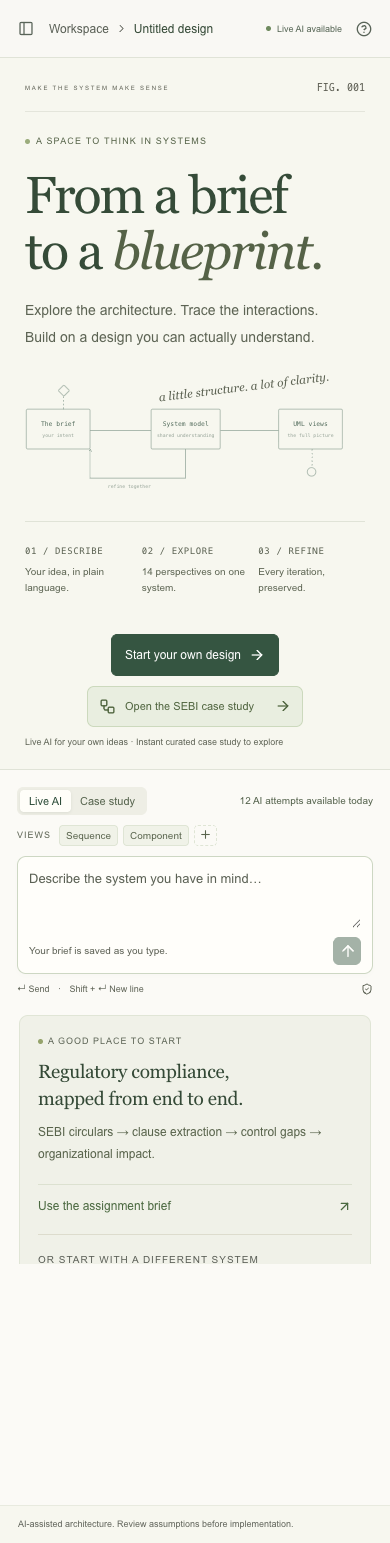
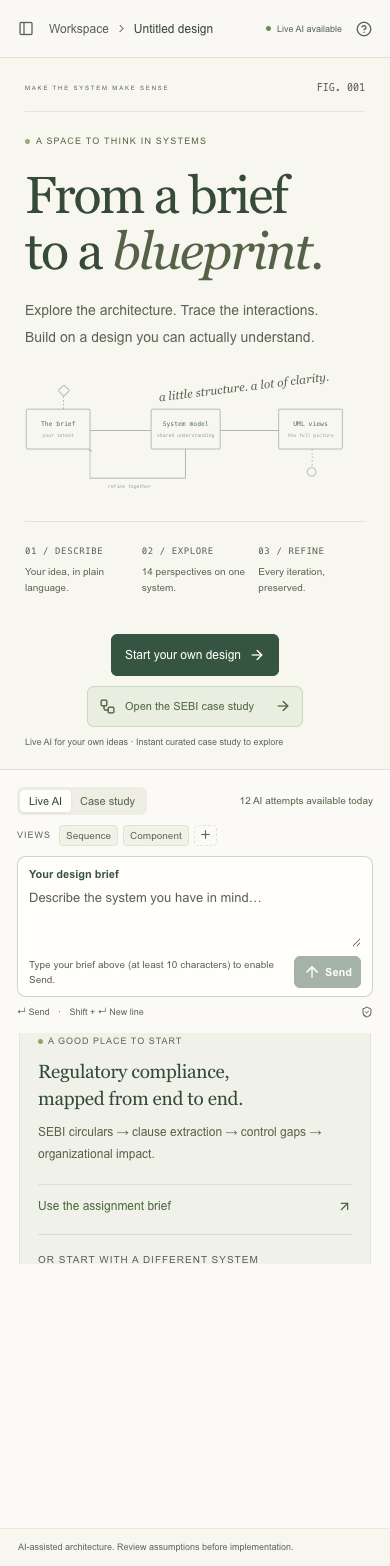
fix: make brief entry and send availability explicit

diff --git a/frontend/src/App.tsx b/frontend/src/App.tsx
@@ -368,7 +368,8 @@ export default function App() {
       opening ||
       input.length < 10 ||
       !selectedTypes.length ||
-      conversation?.archived
+      conversation?.archived ||
+      (mode === 'live' && allowance?.remaining === 0)
     )
       return;
     const latest = conversation?.revisions.at(-1);
@@ -543,6 +544,22 @@ export default function App() {
       </div>
     );
   const isHistoric = conversation && revisionIndex < conversation.revisions.length - 1;
+  const briefLength = prompt.trim().length;
+  const sendDisabledReason = busy
+    ? 'Your design is being generated.'
+    : opening
+      ? 'Opening this design…'
+      : conversation?.archived
+        ? 'Restore this design to enter a new request.'
+        : briefLength === 0
+          ? 'Type your brief above (at least 10 characters) to enable Send.'
+          : briefLength < 10
+            ? `Add ${10 - briefLength} more character${10 - briefLength === 1 ? '' : 's'} to enable Send.`
+            : !types.length
+              ? 'Choose at least one UML view to enable Send.'
+              : requestMode === 'live' && allowance?.remaining === 0
+                ? 'Today’s free AI allowance is used. You can explore a new case study.'
+                : '';
 
   return (
     <div className="app-shell">
@@ -905,9 +922,14 @@ export default function App() {
                 </button>
               </div>
               <div className="composer">
+                <label className="composer-label" htmlFor="design-brief">
+                  {conversation ? 'Your next request' : 'Your design brief'}
+                </label>
                 <textarea
+                  id="design-brief"
                   ref={textarea}
                   aria-label="Describe your software design"
+                  aria-describedby="composer-guidance"
                   placeholder={
                     conversation
                       ? 'What would you like to change?'
@@ -925,25 +947,19 @@ export default function App() {
                   }}
                 />
                 <div className="composer-footer">
-                  <span>
-                    {prompt.length
-                      ? `${prompt.length.toLocaleString()} / 12,000`
-                      : 'Your brief is saved as you type.'}
+                  <span id="composer-guidance">
+                    {sendDisabledReason ||
+                      `${prompt.length.toLocaleString()} / 12,000 · Draft saved`}
                   </span>
                   <button
                     className="send-button"
                     aria-label="Send design request"
-                    disabled={
-                      busy ||
-                      opening ||
-                      !!conversation?.archived ||
-                      prompt.trim().length < 10 ||
-                      !types.length ||
-                      (requestMode === 'live' && allowance?.remaining === 0)
-                    }
+                    title={sendDisabledReason || 'Send your design request'}
+                    disabled={!!sendDisabledReason}
                     onClick={() => void send()}
                   >
                     {busy ? <Loader2 size={17} className="spin" /> : <ArrowUp size={18} />}
+                    <span>Send</span>
                   </button>
                 </div>
               </div>

diff --git a/frontend/tests/controls.spec.ts b/frontend/tests/controls.spec.ts
@@ -133,6 +133,20 @@ test('starter briefs, quota mode, selection controls, and cancellation keep user
 }) => {
   await exposeLiveControls(page);
   await page.goto('/');
+  const input = page.getByLabel('Describe your software design');
+  const send = page.getByRole('button', { name: 'Send design request' });
+  await expect(input).toBeEnabled();
+  await expect(send).toBeDisabled();
+  await expect(
+    page.getByText('Type your brief above (at least 10 characters) to enable Send.'),
+  ).toBeVisible();
+  await input.fill('queue');
+  await expect(send).toBeDisabled();
+  await expect(page.getByText('Add 5 more characters to enable Send.')).toBeVisible();
+  await input.fill('Add queues');
+  await expect(send).toBeEnabled();
+  await input.fill('          ');
+  await expect(send).toBeDisabled();
   await page.getByRole('button', { name: 'Start your own design' }).click();
   await expect(page.getByRole('dialog')).toBeVisible();
   expect((await new AxeBuilder({ page }).analyze()).violations).toEqual([]);

diff --git a/frontend/src/styles.css b/frontend/src/styles.css
@@ -671,6 +671,14 @@ button:hover:not(:disabled) {
   border-color: #7f9671;
   box-shadow: 0 0 0 3px #6c88530c;
 }
+.composer-label {
+  display: block;
+  font-size: 11px;
+  font-weight: 600;
+  color: var(--green);
+  margin-bottom: 7px;
+  cursor: text;
+}
 .composer textarea {
   width: 100%;
   min-height: 60px;
@@ -693,19 +701,26 @@ button:hover:not(:disabled) {
   align-items: center;
   justify-content: space-between;
   margin-top: 6px;
+  gap: 12px;
 }
 .composer-footer > span {
   font-size: 10px;
   color: #5c6054;
+  line-height: 1.5;
+  min-width: 0;
 }
 .send-button {
-  height: 28px;
-  width: 28px;
+  height: 32px;
+  padding: 0 9px;
+  flex-shrink: 0;
   border-radius: 6px;
   background: var(--green);
   color: #fff;
-  display: grid;
-  place-items: center;
+  display: flex;
+  align-items: center;
+  gap: 4px;
+  font-size: 11px;
+  font-weight: 600;
 }
 .send-button:hover:not(:disabled) {
   background: #3f6856;
